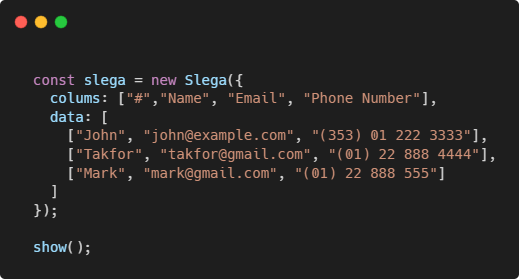
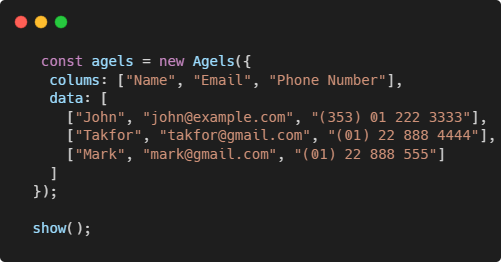
merubah tabel menjadi otomatis dinamis

diff --git a/index.js b/index.js
@@ -7,12 +7,12 @@ class Agels {
       this.trow = document.createElement('tr');
     }
 
-    tabel(){
+    tabel(app){
       let mytable = document.createElement("table");
       let mythead = this.thed;
       let myTbody = this.tbody;
       let trow = this.trow;
-      document.getElementById('app').appendChild(mytable);
+      app.appendChild(mytable);
 
       mytable.setAttribute("class","table table-dark table-hover");
       document.getElementById("app").classList.add("col-lg-6");
@@ -38,35 +38,55 @@ class Agels {
     }
 
     body(){
+        // DATA DINAMIS
         const td = this.colum.data;
+        td.forEach(el => {   
+            
+            const tr = document.createElement('tr');
+            let myTbody = this.tbody;
+              
+          el.forEach(child => {
+          
+            let tdd = document.createElement("td");
+            tr.appendChild(tdd)
+            myTbody.appendChild(tr)
+          
+            tdd.innerHTML += child;
+            let data = document.body.appendChild(tdd)
+            
+            tr.appendChild(data)
+          })
+             // DATA STATIS
 
-        td.forEach(el => {
-          let data = ` 
-                        <tr>
-                            <td>${el[0]}</td>
-                            <td>${el[1]}</td>
-                            <td>${el[2]}</td>
-                        </tr>
-                      `;
-          this.tbody.innerHTML += data;
-        });
-      }
-    }
+          //       // const data = ` 
+          //       //               <tr>
+          //       //                   <td>${child[0]}</td>
+          //       //                   <td>${child[1]}</td>
+          //       //                   <td>${child[2]}</td>
+          //       //               </tr>
+          //       //             `;
+          //       // this.tbody.innerHTML += data;
+              
+              });
+           }
+        }
+      
 
     function show(){
-      agels.tabel();
       agels.header();
       agels.body();
     }
 
   const agels = new Agels({
-    colums: ["Name", "Email", "Phone Number"],
+    colums: ["Name", "Email", "Phone Number","City"],
     data: [
-      ["John", "john@example.com", "(353) 01 222 3333"],
-      ["Takfor", "takfor@gmail.com", "(01) 22 888 4444"],
-      ["Mark", "mark@gmail.com", "(01) 22 888 555"]
+      ["John", "john@example.com", "(353) 01 222 3333","New York"],
+      ["Takfor", "takfor@gmail.com", "(01) 22 888 4444","Las vegas"],
+      ["Mark", "mark@gmail.com", "(01) 22 888 555","orlando"]
     ]
   });
 
+  const id = document.getElementById('app');
+  agels.tabel(app)
   show();
   

diff --git a/home.html b/home.html
@@ -28,11 +28,24 @@
                    Cukup dengan berikan objek config ke consctructor. memungkinkan untuk diperbarui ke depanya
                 </p>
                 <div class="img">
-                    <img src="carbon.png" alt="">
+                    <img src="carbon-1.png" alt="">
                 </div>
             </div>
             <p class="fs-5 fw-light mt-3">
                 dan ini adalah contoh tabel Agels, cukup dengan gunakan <span  style="background-color: #dee2e6;"> #Id </span>di dalam div dengan value <span style="background-color: #dee2e6;">#ppa</span>
+            </p>
+            <div class="img">
+                <img src="carbon-3.png" alt="">
+            </div>
+            <p class="fs-5 fw-light mt-3">
+              Pastikan value dari id yang digunakan sama dengan yang di <em>html</em> contoh <span style="background-color: #dee2e6;">#app</span>
+            </p>
+            
+            <div class="img">
+                <img src="carbon-4.png" alt="">
+            </div>
+            <p class="fs-5 fw-light mt-3">
+                dan ini adalah contoh tabel Agels
             </p>
             <div id="app">
             </div> 
@@ -45,7 +58,7 @@
                     Cukup dengan berikan objek config ke consctructor. memungkinkan untuk diperbarui ke depanya
                 </p>
                 <div class="img">
-                    <img src="carbon-1.png" alt="">
+                    <img src="carbon-2.png" alt="">
                 </div>
         </div>
         <p class="fs-5 fw-light mt-3 -mb-3">
